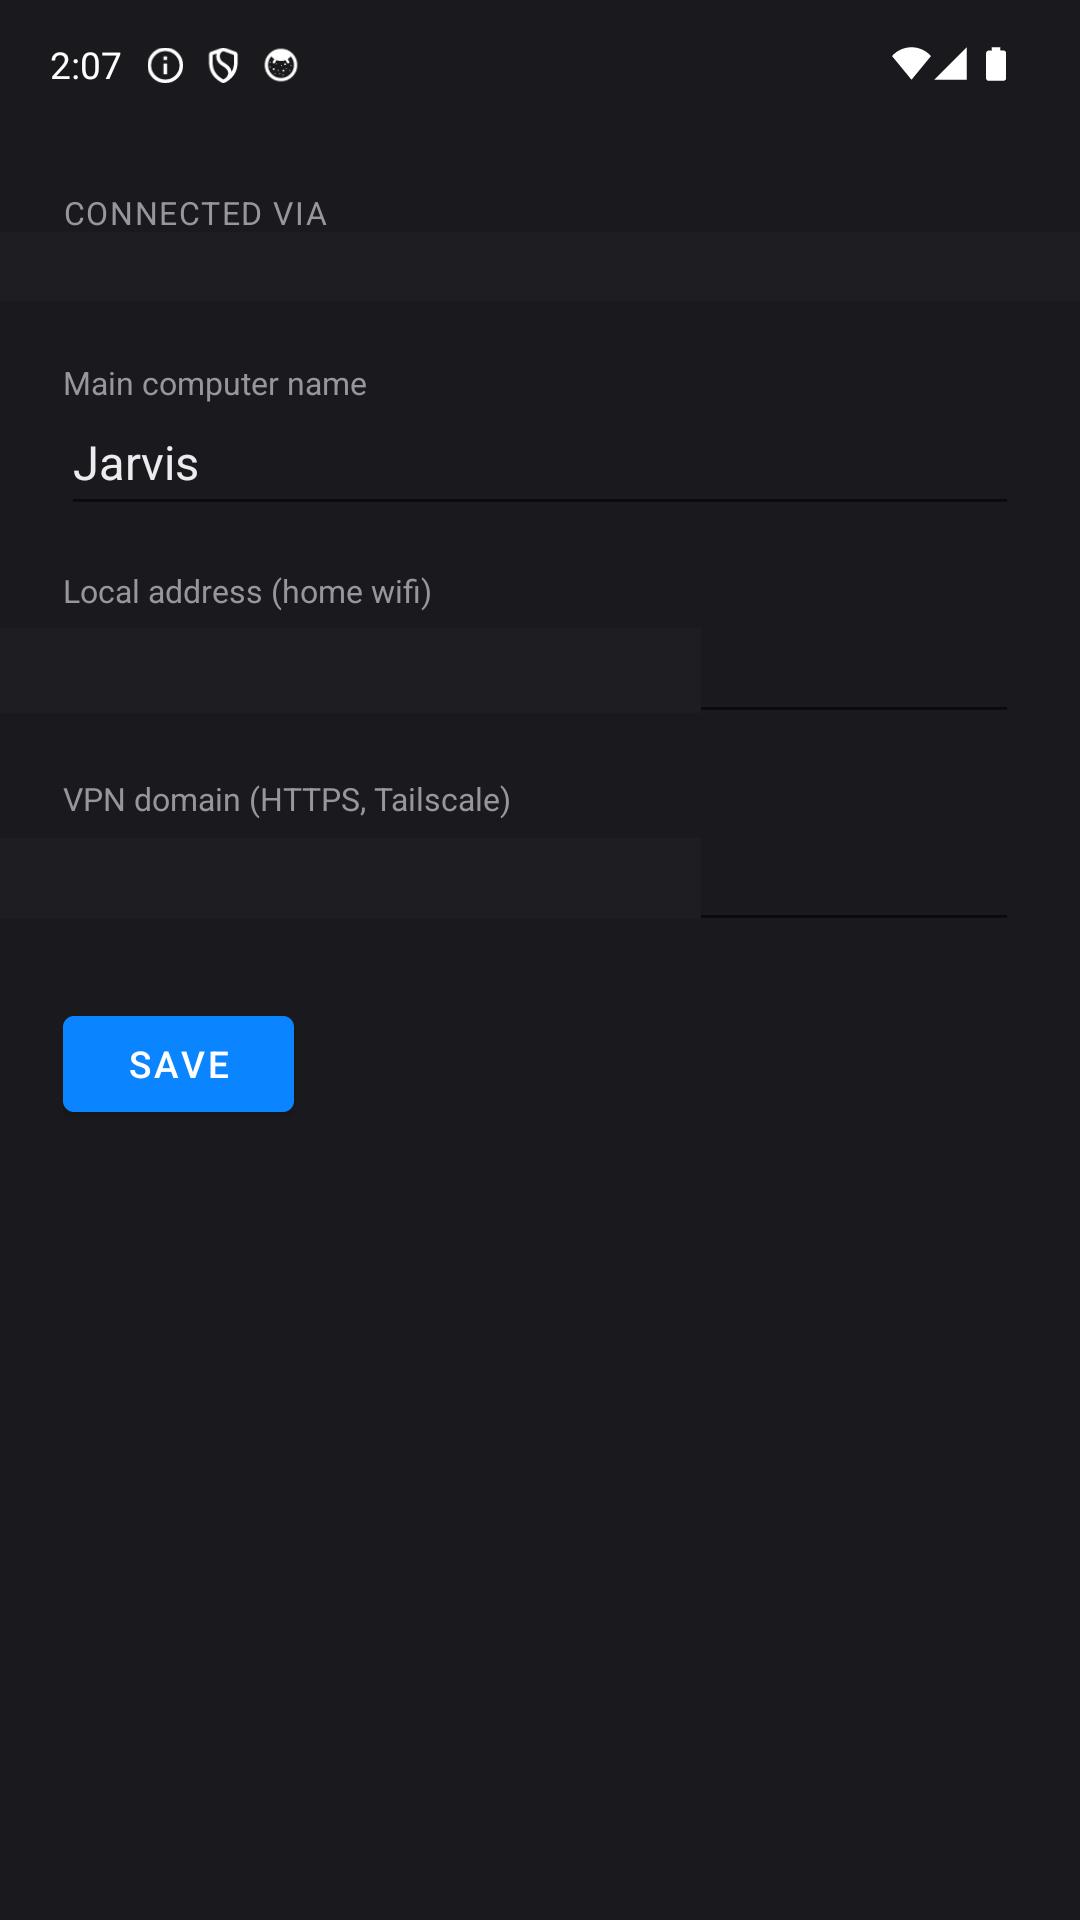
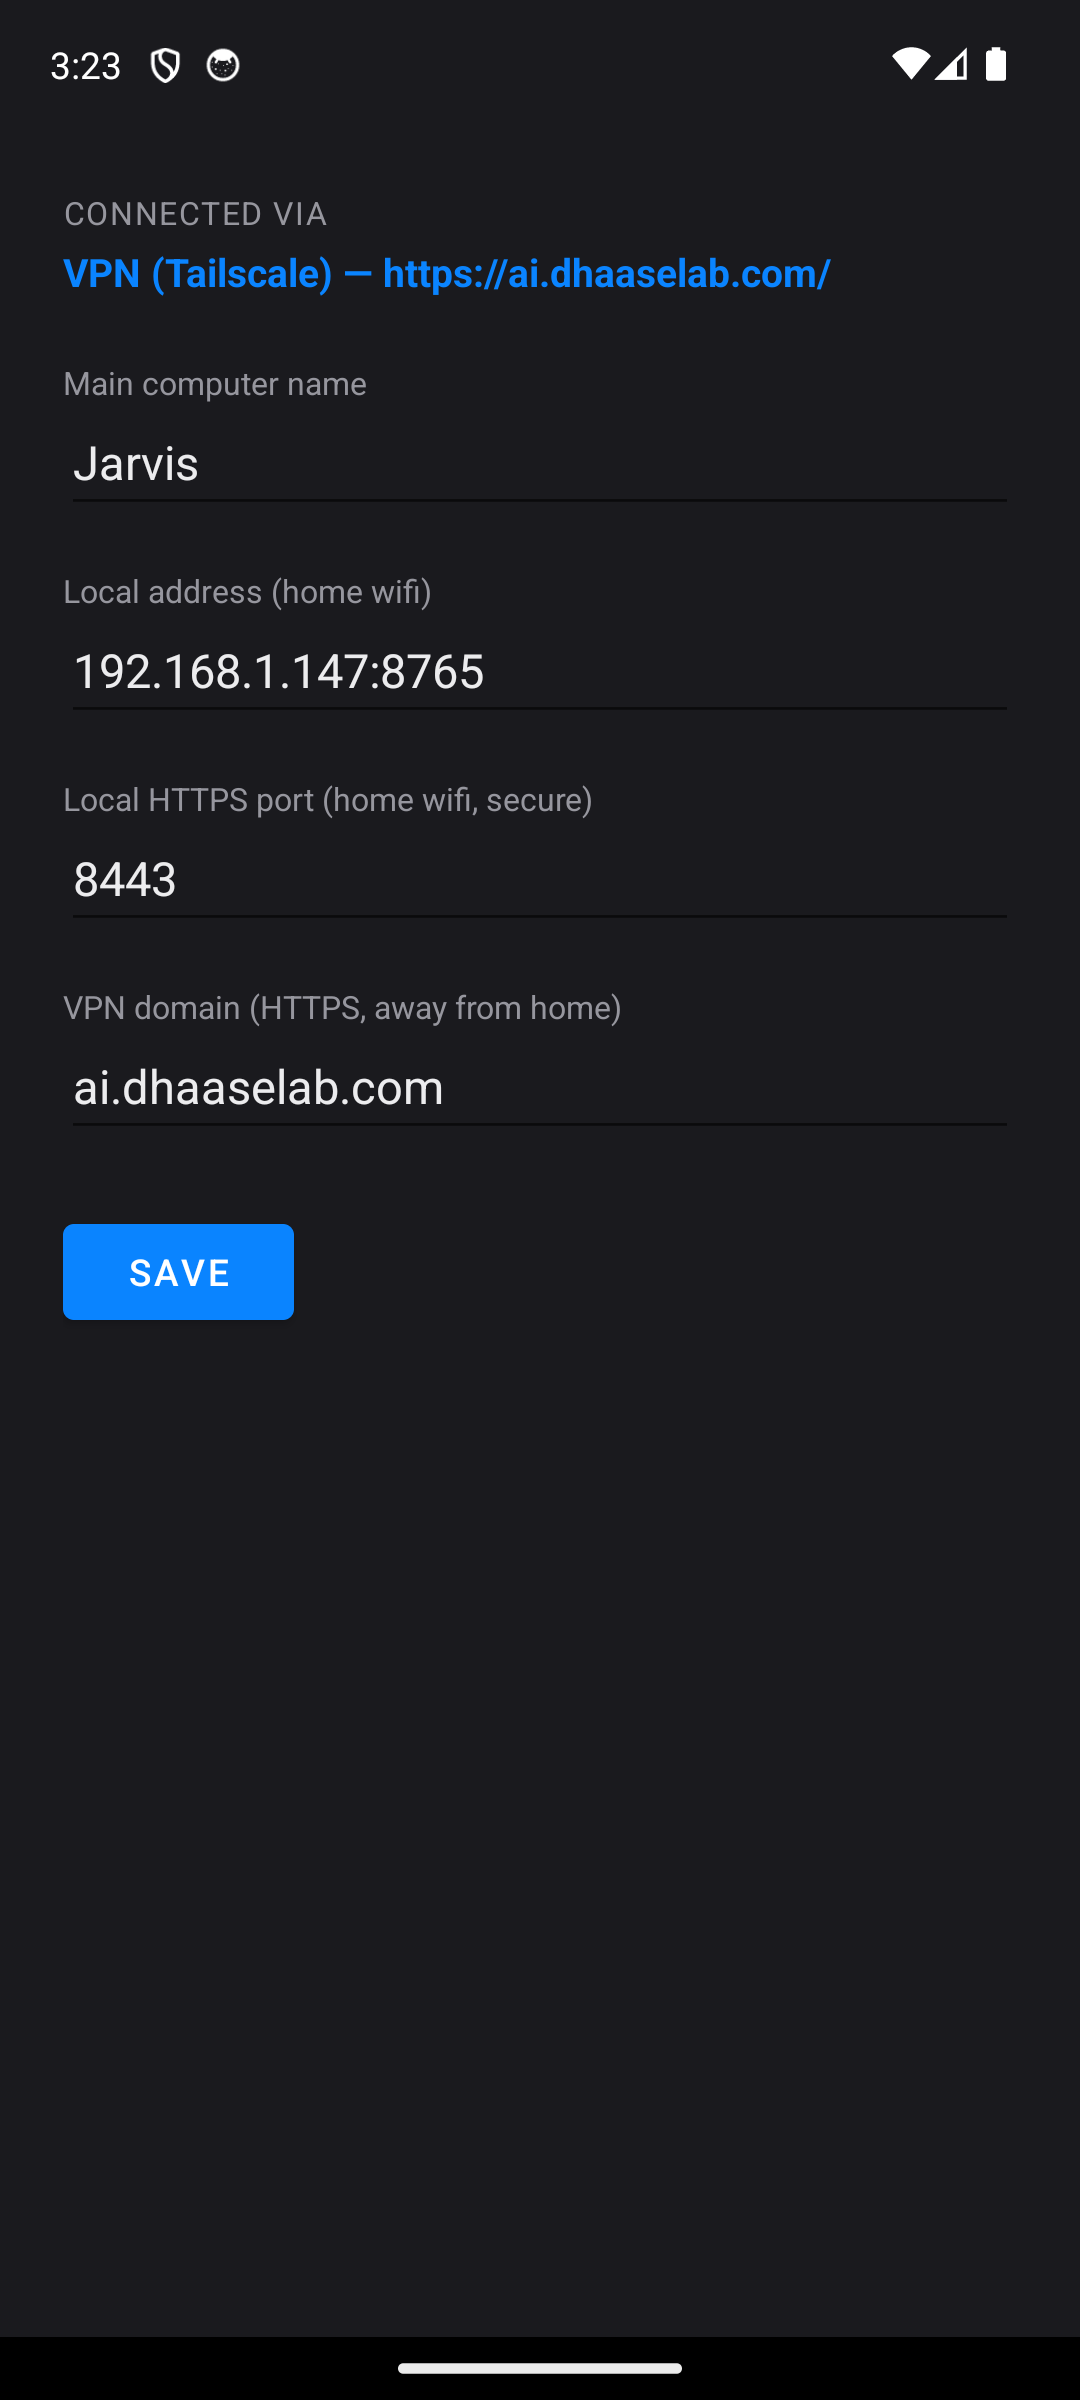
Fix stale Play Store listing: outdated screenshots and encryption claim
Both store screenshots were from before today's Iron Man HUD redesign
— plain white/blue GUI, and the settings screenshot was missing the
new "Local HTTPS port" field entirely. Replaced both by actually
running the app: booted the JarvisTest emulator, installed the debug
build, connected it to the real running server (fell back to the VPN
address automatically, confirmed the Settings screen shows
"Connected via: VPN (Tailscale)"), had a real conversation through
the local Ollama-backed LLM, and captured genuine current-state
screenshots of both the chat view and the settings screen.

Also fixed PLAY_STORE_LISTING.md's Data safety section — it still
claimed "the local/LAN address is plain HTTP by design," which was
true when written but is no longer accurate after today's local-HTTPS
work (see the LAN-first networking commits). Updated to reflect that
both paths are now encrypted, with a note about the one-time
on-device CA-trust step.

diff --git a/android_app/PLAY_STORE_LISTING.md b/android_app/PLAY_STORE_LISTING.md
@@ -60,10 +60,16 @@ features specifically (both are opt-in permissions at the OS level, but the Data
 form asks about the feature as designed, not per-user opt-out) — answer "required for app
 functionality," not "optional," for audio and the FCM token.
 
-**Encryption in transit:** Yes for the VPN address (`https://ai.dhaaselab.com`, real TLS
-cert). The local/LAN address is plain HTTP by design (see `android_app/README.md`'s scope
-boundary on why) — answer honestly that not all network traffic is encrypted, since the
-local path genuinely isn't.
+**Encryption in transit:** Yes for both paths now (updated Sept 2026 — this used to be
+plain HTTP on the local/LAN address, see git history for that era's wording). The VPN
+address (`https://ai.dhaaselab.com`) uses a real publicly-trusted cert as before. The
+local/LAN address now also uses HTTPS via a locally-issued cert (mkcert) trusted on-device
+— see `REMOTE_ACCESS.md`'s "Local HTTPS on the LAN" section. `ConnectionManager.kt` tries
+the local HTTPS address first, falling back to plain HTTP only if that cert isn't trusted
+on this particular device yet (e.g. a fresh install before the one-time CA-trust step) —
+so answer "yes, encrypted" here, but it's still worth noting in the form's free-text if it
+allows nuance that the very first run on an unconfigured device could briefly fall back to
+HTTP until the on-device setup step is done.
 
 **Data deletion request mechanism:** Not applicable in the form's usual sense (no account
 system, no server-side data retention Devin doesn't already fully control) — the contact
